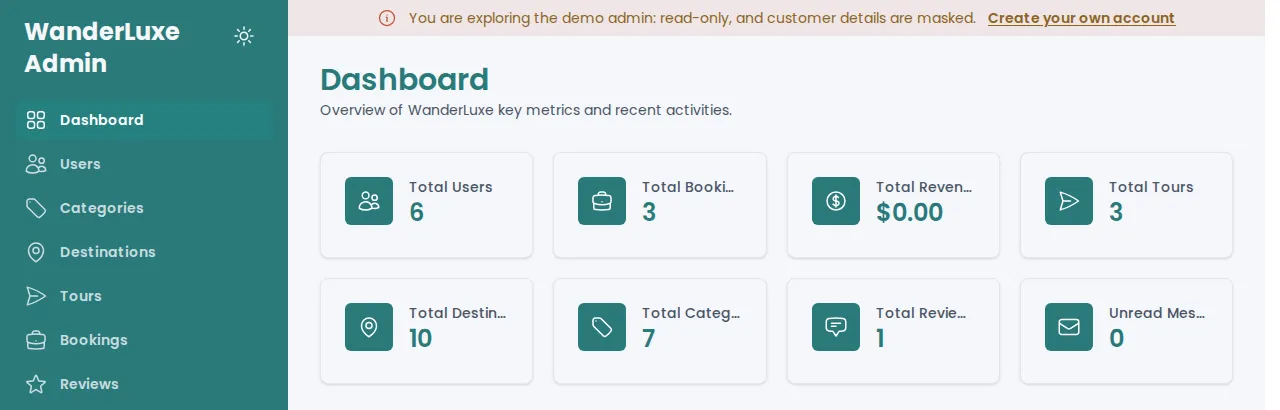
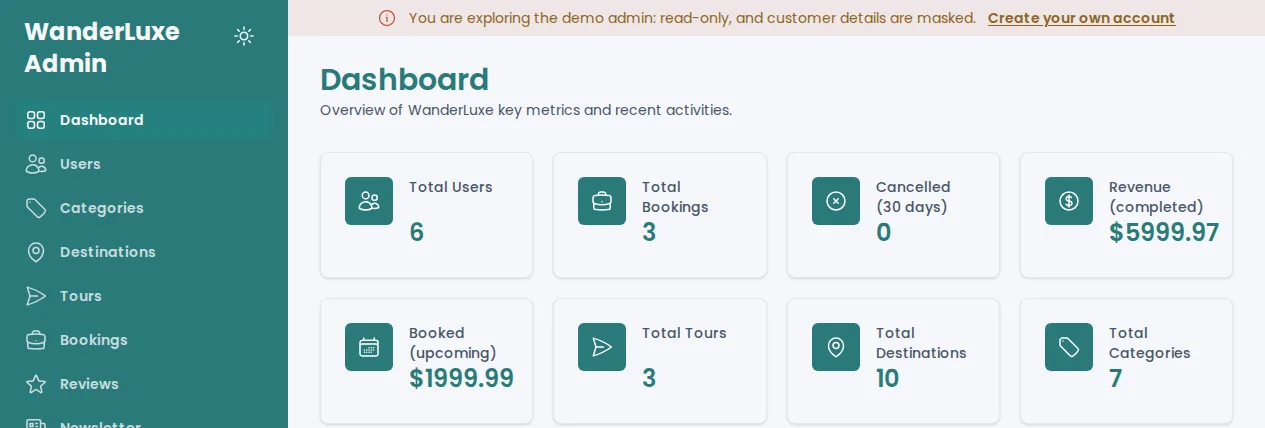
docs: booking lifecycle in the README, plans, testing and deploy notes
- README: customer/admin features and an engineering highlight for the
  booking lifecycle; test counts 75 API + 78 frontend + 20 E2E; the admin
  screenshot now shows real revenue figures instead of $0.00.
- FEATURE_PLANS: all four marked done, with where the build differs.
- TESTING: the new test files and specs.
- ARCHITECTURE: lifecycle, history table, e-mails, review rule.
- DEPLOYMENT: the two new migrations must reach Supabase before the API.
- FINAL_AUDIT_REPORT: section 10.

diff --git a/docs/TESTING.md b/docs/TESTING.md
@@ -6,7 +6,7 @@ npm test         # both workspaces
 npm run check    # lint + typecheck + tests + production builds
 ```
 
-## Backend — `backend/tests` (Vitest + Supertest, 52 tests)
+## Backend — `backend/tests` (Vitest + Supertest, 75 tests)
 
 - **Real database, hermetic.** `tests/globalSetup.ts` connects as the owner role and:
   1. drops the `wanderluxe_test` schema;
@@ -23,13 +23,16 @@ npm run check    # lint + typecheck + tests + production builds
 |---|---|
 | `auth.test.ts` | sign-up validation and case-insensitive duplicates; sign-in without data leaks or enumeration, refresh token only in an `HttpOnly; SameSite=Strict; Path=/api/auth` cookie, stored hashed; `/me`; sessions: rotation on refresh, missing/garbage/access-token cookies, two tabs refreshing at once, reuse of a rotated token revoking the session, logout ending only that session, password change keeping this device and signing out others, deleted accounts; full password-reset flow including token hashing, single use and signing out every session |
 | `account.test.ts` | profile update never returns the hash; e-mail conflicts; change password; admin-only routes (401/403/200); page-size cap; admin self-delete/self-demote guards |
-| `bookings.test.ts` | price and seat maths; **concurrent overselling**; validation; departed tours; owner/admin/stranger access; cancellation rules (3-day rule vs admin); admin list and confirm |
+| `bookings.test.ts` | price and seat maths; **concurrent overselling**; validation; departed tours; owner/admin/stranger access; cancelling keeps the booking as `cancelled` history with who/when/why and releases the seats; a second (or concurrent) cancel is 409 and releases nothing; 3-day rule vs admin; reason length; `/booking/my?view=` upcoming/past/cancelled; admin list, status filter and confirm; stats leave cancellations out |
+| `bookingStatus.test.ts` | the transition table; pending → confirmed → completed → refunded with a history row per step (who, note); a disallowed move is 409 with the allowed next states; cancelling via status releases seats exactly once under concurrency; admin only; `next_statuses` in the admin list; finished tours complete confirmed bookings automatically (not pending ones) and revenue splits into completed and booked |
+| `bookingEmails.test.ts` | "booking received" e-mail with reference, total, link and escaped name; confirmed and company-cancelled e-mails (escaped reason); customer-cancelled wording; completion asks for a review; nothing to example.com; a failing e-mail never fails the booking |
+| `reviews.test.ts` | no booking, a future confirmed booking or a cancelled booking → 403; a completed booking → one review, then 409; a confirmed booking whose tour has ended counts; the eligibility endpoint for each case, sign-in and 404 |
 | `demo.test.ts` | demo accounts: off unless `DEMO_MODE`; unknown role 400, missing account 503; the demo customer signs in without a password, may book and favourite, can't edit the account or password (403 with a clear message); refreshed tokens stay demo tokens; the demo admin is read-only and gets other users' e-mails and names masked; bookings older than 24 h are removed and seats released on the next demo sign-in; `maskPersonalData` masks contact messages but not status messages |
 | `content.test.ts` | catalogue pagination and image URLs; id/limit validation; literal `%` search; JSON 404; security headers; real vs fake image uploads; cover-image ownership; date order; reviews (range, duplicate, owner delete); favourites; contact e-mail HTML escaping; admin stats; newsletter double-confirm |
 
 Run one file: `npx vitest run tests/bookings.test.ts` (inside `backend/`).
 
-## Frontend — `frontend/src/test` (Vitest + jsdom + Testing Library, 66 tests)
+## Frontend — `frontend/src/test` (Vitest + jsdom + Testing Library, 78 tests)
 
 | File | Covers |
 |---|---|
@@ -37,14 +40,16 @@ Run one file: `npx vitest run tests/bookings.test.ts` (inside `backend/`).
 | `axios.test.ts` | concurrent 401s trigger **one** cookie refresh (no token in the body) and are retried; after a reload the token is fetched before the first request; a rejected session signs out without looping, a network error does not; no token ever reaches `localStorage`; `signOut` calls `/auth/logout` and signs out locally even offline |
 | `components.test.tsx` | Pagination accessibility and edge states; `SmartImage` fallback; `StarRating` radio-group semantics |
 | `forms.test.tsx` | sign-in and sign-up (validation, payloads, server and network errors), contact form, ReviewForm (stars, text, links rejected, signed-out redirect), PasswordChangeForm (cancel, mismatch, payload, keeps the input when the server rejects it) |
-| `booking.test.tsx` | tour page booking box: total follows the guest count, more guests than seats, payload, API errors, signed-out redirect, departed and sold-out tours, tour not found |
-| `admin.test.tsx` | `AdminRoute` / `ProtectedRoute` / `UnprotectedRoute` for visitor, customer and admin; admin Users page (rows, empty, error, delete only after confirming); admin Bookings page (actions per status, confirm, failed cancel) |
+| `booking.test.tsx` | tour page booking box: total follows the guest count, the seat limit shows inline and disables Book, payload, API errors, signed-out redirect, departed and sold-out tours, tour not found |
+| `booking-history.test.tsx` | My Bookings tabs ask the API for each view and show cancelled bookings with their date; a cancelled booking's details explain who cancelled and why, with no cancel button; cancelling sends the optional reason and opens the Cancelled tab |
+| `review-gate.test.tsx` | the tour page shows the review form only when eligible; explanations for signed-out, not travelled and already reviewed; nothing for admins; completed bookings get a "Write a review" link |
+| `admin.test.tsx` | `AdminRoute` / `ProtectedRoute` / `UnprotectedRoute` for visitor, customer and admin; admin Users page (rows, empty, error, delete only after confirming); admin Bookings page (Manage dialog offers only the allowed next states and sends the note, final bookings show history only, refused changes show the server's message, status filter, who cancelled and why) |
 | `profile.test.tsx` | dashboard "Booked on" and My Reviews dates, using the API's real field names (`booking_date`, `createdAt`) |
 | `errors.test.tsx` | a crashing page shows the recovery screen; unknown URLs show the 404 page; stale-chunk errors after a deploy are recognised; `AppErrorBoundary` catches errors outside the router |
 
 `utils.tsx` holds the shared helpers: `mockApi` (answers every axios request and records it), `renderWithProviders` (fresh QueryClient, memory router, toasts) and `signInAs`.
 
-## End-to-end — `e2e/` (Playwright, 18 tests)
+## End-to-end — `e2e/` (Playwright, 20 tests)
 
 The real app in a real browser (Chromium): the Vite dev server, the API and the local docker PostgreSQL + Mailpit. **Local stack only.** Nothing in `e2e/` knows a production URL.
 
@@ -80,7 +85,8 @@ Each test creates the users and tours it needs through the API (`e2e/support/api
 | File | Covers |
 |---|---|
 | `auth.spec.ts` | sign-up form → sign-in form → profile dashboard greets the user; the navbar user menu → Account Settings shows their name and e-mail. Session: no token in `localStorage` or `document.cookie`, the `wl_session` cookie is httpOnly/Strict/`/api/auth`; a reload keeps the user signed in; Sign Out removes the cookie and the server rejects a copy of it; profile pages then redirect to sign-in |
-| `booking.spec.ts` | book 3 seats on a future tour (seats 8 → 5) → listed in My Bookings → details → confirm dialog ("Keep booking" first, then "Cancel booking") → My Bookings is empty, seats back to 8 in the UI and the API |
+| `booking.spec.ts` | book 3 seats on a future tour (seats 8 → 5) → "booking received" e-mail in Mailpit → listed in My Bookings → details → confirm dialog ("Keep booking" first, then "Cancel booking" with a reason) → the booking is under *Cancelled* with its date and reason, *Upcoming* is empty, a cancellation e-mail arrives, seats back to 8 in the UI and the API |
+| `review.spec.ts` | an admin confirms and then completes a booking in the Manage dialog (e-mails for both, history with the note) → the customer finds it under *Past*, follows "Write a review" and posts one; a customer who has not travelled sees "Reviews open after your trip" and a visitor sees a sign-in note |
 | `departed-tour.spec.ts` | a tour that started 10 days ago shows a disabled "Unavailable" button, a disabled guest field and the "already departed" status |
 | `admin.spec.ts` | admin signs in → user menu → Admin Panel; every dashboard metric shows a number → edits a tour's start/end dates → API returns the new dates, public page shows the new duration |
 | `demo.spec.ts` | *Try as customer* → profile with the demo banner → saving Account Info is refused with the demo message; *Try as admin* → admin dashboard, read-only banner, customer e-mails masked on the Users page |

diff --git a/docs/ARCHITECTURE.md b/docs/ARCHITECTURE.md
@@ -24,7 +24,10 @@ helmet → cors (allow-list) → json/urlencoded (size-limited) → request log
 
 - **Layers.** routes → middleware → controllers → Sequelize models.
   - The controllers are small, so a separate service/repository layer would only add indirection.
-  - Logic that needs atomicity uses `sequelize.transaction()` inline: booking create/cancel, tour creation with images, cover swap, image deletion, newsletter confirmation.
+  - Logic that needs atomicity uses `sequelize.transaction()` inline: booking create/cancel/status change, tour creation with images, cover swap, image deletion, newsletter confirmation.
+  - Booking lifecycle (`src/lib/bookings.ts`): `pending → confirmed | cancelled`, `confirmed → completed | no_show | cancelled`, `completed → refunded`; the rest are final. Cancelling keeps the row (`cancelled_at`, `cancelled_by`, `cancellation_reason`) and releases the seats once. Every change writes a `booking_status_history` row in the same transaction. Confirmed bookings of finished tours become `completed` lazily, before bookings and stats are listed.
+  - Booking e-mails (`src/lib/bookingNotifications.ts`) are sent after the transaction commits and never awaited by the request; failures are logged only.
+  - Reviews (`src/lib/reviews.ts`) need a completed booking, or a confirmed one whose tour has ended.
 - **Configuration.** `src/config/env.ts` is the only place that reads `process.env`. It validates every variable at start-up.
 - **Errors.** Throw `NotFoundError`, `BadRequestError`, `ForbiddenError` or `AppError(status, msg)`. The client always receives `{ message }`; validation errors also include `errors: [{field, message}]`.
 - **Storage.** `src/lib/storage.ts` provides `put`/`remove` with two drivers.
@@ -44,7 +47,7 @@ helmet → cors (allow-list) → json/urlencoded (size-limited) → request log
 | Same origin | The browser only talks to its own origin: `/api` is proxied by Vite in development and forwarded to Render by the rewrite in `frontend/vercel.json` in production. That keeps the cookie first-party, so `SameSite=Strict` blocks cross-site use (CSRF) and no CORS is involved. |
 | Password reset | 256-bit random token e-mailed to the user. Only its SHA-256 is stored. Valid 1 h, single use. Same response whether or not the e-mail exists. |
 | Authorization | `isAdmin` for admin routes. Resource ownership is checked in controllers (bookings, reviews, favourites) against `req.user_id` from the token. |
-| Demo accounts | `POST /auth/demo { role }` (only while `DEMO_MODE=true`) signs in as `DEMO_CUSTOMER_EMAIL` or `DEMO_ADMIN_EMAIL`, created by `npm run db:demo-users` with unusable random passwords. Their access tokens carry `demo: true`, and `verifyToken` enforces the limits (`src/lib/demo.ts`). The demo admin can make no writes, and its JSON responses have other people's names, e-mails, phones and contact messages masked. The demo customer may only write bookings, favourites and reviews, and those are removed 24 h later on the next demo sign-in. |
+| Demo accounts | `POST /auth/demo { role }` (only while `DEMO_MODE=true`) signs in as `DEMO_CUSTOMER_EMAIL` or `DEMO_ADMIN_EMAIL`, created by `npm run db:demo-users` with unusable random passwords. Their access tokens carry `demo: true`, and `verifyToken` enforces the limits (`src/lib/demo.ts`). The demo admin can make no writes, and its JSON responses have other people's names, e-mails, phones and contact messages masked. The demo customer may only write bookings, favourites and reviews (reviews only after travelling, like anyone), and those are removed 24 h later on the next demo sign-in. |
 | SPA | The access token is kept in memory only; `localStorage` holds just the profile and a signed-in flag for the first paint. After a reload the first API call (or `useRehydrateAuth`) exchanges the cookie for a new access token. The axios interceptor refreshes once on 401: a single in-flight refresh, sent through a client without the interceptor. A rejected session signs the user out and clears the query cache; a network error does not. Sign-out calls `/auth/logout` first. Route guards are UX only; the API enforces everything. |
 
 ## Frontend structure
@@ -74,6 +77,7 @@ Light-mode tokens meet WCAG AA contrast.
 
 ```
 roles 1─* users 1─* bookings *─1 tours *─1 destinations
+                    bookings 1─* booking_status_history
                  1─* favorites *─1 tours *─1 categories
                  1─* reviews   *─1 tours 1─* tour_images (exactly one is_cover)
 posts · newsletter_subscribers · newsletter_verifications · contacts (standalone)

diff --git a/README.md b/README.md
@@ -23,14 +23,15 @@
 ## What it does
 
 - **Visitors** browse destinations, tours, and blog posts, search the catalogue, read reviews, subscribe to the newsletter (double opt-in), and use the contact form.
-- **Customers** book tours with live seat counts, cancel up to three days before departure, save favourites, write reviews, and manage their profile and password.
-- **Admins** manage tours (with image galleries), destinations, categories, blog posts, users and roles, bookings, reviews, newsletter subscribers, and contact messages, from a dashboard with key metrics.
+- **Customers** book tours with live seat counts and get e-mail confirmations, cancel up to three days before departure (cancelled trips stay in their history), save favourites, review tours they have travelled on, and manage their profile and password.
+- **Admins** manage tours (with image galleries), destinations, categories, blog posts, users and roles, bookings (moving each through pending → confirmed → completed, with a history of every change), reviews, newsletter subscribers, and contact messages, from a dashboard with key metrics.
 
 ## Engineering highlights
 
 - **Sessions done properly.** The short-lived access token lives in memory only. The refresh token is an opaque, rotating value in an `HttpOnly; Secure; SameSite=Strict` cookie, and the database stores only its hash. Reusing an old token revokes the whole session, and logout or a password change ends sessions on the server. Vercel proxies `/api`, so the cookie is first-party.
 - **Defence in depth.** zod validation on every request, role checks from the signed token, rate limiting on auth and forms, helmet headers, a least-privilege database role, image uploads re-encoded with sharp, and hashed reset tokens.
 - **No overselling.** Seats are taken with a single conditional `UPDATE`, which is tested with concurrent bookings.
+- **A real booking lifecycle.** One transition table decides which status changes are allowed; every change is recorded in the same transaction, seats are released exactly once, and finished trips complete themselves without a cron job. E-mails go out only after the database commits, so a mail outage can't break a booking.
 - **Demo accounts that can't do damage.** A server-side write allow-list blocks changes, responses are masked for the demo admin, and the demo customer's bookings are cleaned up automatically after 24 hours.
 - **Tested at three levels.** API integration tests against a real PostgreSQL, React component tests, and Playwright end-to-end tests that include axe accessibility checks. CI runs all of them on every PR, and the API deploys only when CI is green.
 - **Accessible and findable.** Lighthouse gives the main pages 100 for accessibility, best practices and SEO. They have per-page titles, a meta description, social preview tags, a sitemap, ordered headings and a dark mode.
@@ -109,7 +110,7 @@ npm run db:demo-users       # optional: the demo accounts behind "Try as custome
 npm run dev                 # API on :3000 and web app on :5173, with hot reload
 ```
 
-Open http://localhost:5173. E-mails such as password resets and newsletter confirmations appear at http://localhost:8025.
+Open http://localhost:5173. E-mails such as booking confirmations, password resets and newsletter confirmations appear at http://localhost:8025.
 
 The development account passwords are `DEV_ADMIN_PASSWORD` / `DEV_CUSTOMER_PASSWORD` in `backend/.env.example`. They work only against a local database.
 
@@ -154,7 +155,7 @@ The full variable reference is in `backend/.env.example` and [LOCAL_DEVELOPMENT.
 
 ```bash
 npm run db:up      # tests need PostgreSQL
-npm test           # 52 API tests + 66 frontend tests (npm run test:e2e: 18 browser tests)
+npm test           # 75 API tests + 78 frontend tests (npm run test:e2e: 20 browser tests)
 ```
 
 The API suite rebuilds the dedicated `wanderluxe_test` database before every run, so it never touches your development data. See [docs/TESTING.md](docs/TESTING.md).

diff --git a/docs/FEATURE_PLANS.md b/docs/FEATURE_PLANS.md
@@ -1,5 +1,13 @@
 # Feature plans
 
+> **Status (2026-11-19): all four are built**, one commit each on `feat/booking-lifecycle`. Where the build differs from the plan:
+> - My Bookings filters with `?view=upcoming|past|cancelled` (not `?status=`), so it can't be confused with a booking's status.
+> - No partial index on active bookings: the existing `bookings_user_id_idx` is enough at this size.
+> - The optional `notify_bookings` preference was left out.
+> - The admin's status change and history share one *Manage* dialog instead of a dropdown plus a popover.
+>
+> Of "Also worth doing", the guest-count limit is done. Card-size images and the two missing production images are still open.
+
 Plans for the next four product features, written 2026-11-18 against the code at that date. Each plan lists:
 - what happens today;
 - the proposed change across the database, API and frontend;
@@ -9,12 +17,12 @@ Plans for the next four product features, written 2026-11-18 against the code at
 
 They are ordered so that each builds on the one before. All four share one idea: a booking has a **lifecycle** (`pending → confirmed → completed`, with `cancelled`, `no_show` and `refunded` as side exits) instead of being deleted.
 
-| # | Feature | Depends on | Size |
-|---|---|---|---|
-| 1 | Keep cancelled bookings as history | – | M (1–1.5 days) |
-| 2 | Admin booking status changes | 1 | M (1 day) |
-| 3 | Booking confirmation e-mails | 1, 2 (for the status e-mails) | S–M (0.5–1 day) |
-| 4 | Reviews only after a completed trip | 2 | S (0.5 day) |
+| # | Feature | Depends on | Size | Status |
+|---|---|---|---|---|
+| 1 | Keep cancelled bookings as history | – | M (1–1.5 days) | Done |
+| 2 | Admin booking status changes | 1 | M (1 day) | Done |
+| 3 | Booking confirmation e-mails | 1, 2 (for the status e-mails) | S–M (0.5–1 day) | Done |
+| 4 | Reviews only after a completed trip | 2 | S (0.5 day) | Done |
 
 ---
 
@@ -176,5 +184,5 @@ cancelled, no_show, refunded → (final)
 - **Smaller images for cards.**
   - Tour and destination photos are served at their original size (≈ 450 KB for a 378 px card). On a throttled mobile connection that makes up most of the tours/destinations page load (Lighthouse LCP ≈ 7–14 s).
   - Generate a ~800 px "card" variant at upload time with sharp (already a dependency), and backfill the existing images with a one-off script against Supabase Storage.
-- **Guest count above available seats.** The tour page only blocks this when *Book* is pressed (`TourDetailsPage.tsx`). Capping the input, or showing the limit inline, would be friendlier.
+- **Guest count above available seats.** *Done:* the limit now shows next to the Guests field and *Book* stays disabled until the count fits.
 - **Missing production images.** The Italy destination image and the "Family Fun in Gold Coast" cover are missing from the Supabase buckets. Re-upload them through the admin panel.

diff --git a/FINAL_AUDIT_REPORT.md b/FINAL_AUDIT_REPORT.md
@@ -263,3 +263,15 @@ Follow-up cleanup, also 2026-11-17:
   - 66 frontend tests, up from 21.
   - 18 Playwright tests, up from 6, now also run in CI as a second job.
 - **README** rewritten for visitors, with screenshots and an architecture diagram. Feature plans are in docs/FEATURE_PLANS.md.
+
+## 10. Booking lifecycle (2026-11-19)
+
+The four product features planned in docs/FEATURE_PLANS.md, one commit each:
+
+- **Cancelled bookings are kept as history.** The row stays with who cancelled it, when and why. The seats are released exactly once; a second cancel is a 409. My Bookings has Upcoming / Past / Cancelled tabs.
+- **Admins change booking status.** One transition table (`backend/src/lib/bookings.ts`), a history row for every change, and automatic completion of finished trips. This also fixed the dashboard revenue, which was always $0.00 because nothing ever set `completed`.
+- **Booking e-mails.** Sent when a booking is made, confirmed, cancelled or completed. They go out after the transaction commits, so a mail failure can't fail a booking.
+- **Reviews only after a completed trip.** `POST /review` answers 403 otherwise. The tour page explains why the form is missing.
+- **Smaller fix.** The tour page shows the seat limit next to the Guests field.
+- **Schema.** Two additive migrations, `20261119000001` (three nullable columns on `bookings`) and `20261119000002` (`booking_status_history`). Both must be applied to Supabase before the API is deployed.
+- **Tests.** 75 API tests, 78 frontend tests and 20 Playwright tests.

diff --git a/DEPLOYMENT.md b/DEPLOYMENT.md
@@ -147,7 +147,7 @@ In the existing project → **Settings → Git** → connect `ArnoSahakyan/wande
   - **Render waits for CI:** `render.yaml` sets `autoDeployTrigger: checksPass`, so the API is redeployed only after the GitHub Actions CI run for that commit passes. A red CI run leaves the previous version live.
   - Render applies `render.yaml` changes only to services created from the Blueprint. If the service was created by hand, set the same thing in the dashboard: Settings → Build & Deploy → Auto-Deploy → **After CI Checks Pass**.
   - **Vercel still deploys every push.** A failing frontend build stops that deploy; a failing test does not.
-- **Schema changes:** new migrations are **not** run automatically. Run step 2b against Supabase *before* pushing code that depends on them.
+- **Schema changes:** new migrations are **not** run automatically. Run step 2b against Supabase *before* pushing code that depends on them. For example, the booking lifecycle (2026-11-19) needs `20261119000001-add-booking-cancellation-fields` and `20261119000002-create-booking-status-history` applied before the API that uses them is deployed; both are additive, so the old API keeps working against the new schema.
 - **Rollback:** see DATABASE_AUDIT.md §6. Supabase's daily backups (paid plans) or a `pg_dump` before each migration give you a way back.
 
 ## Troubleshooting
